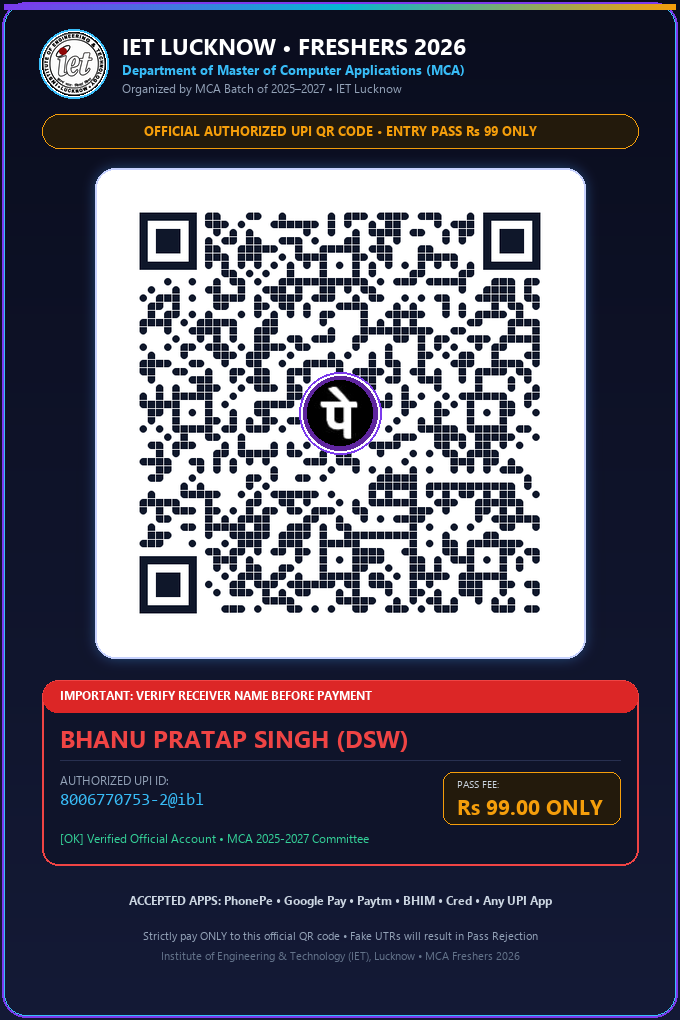
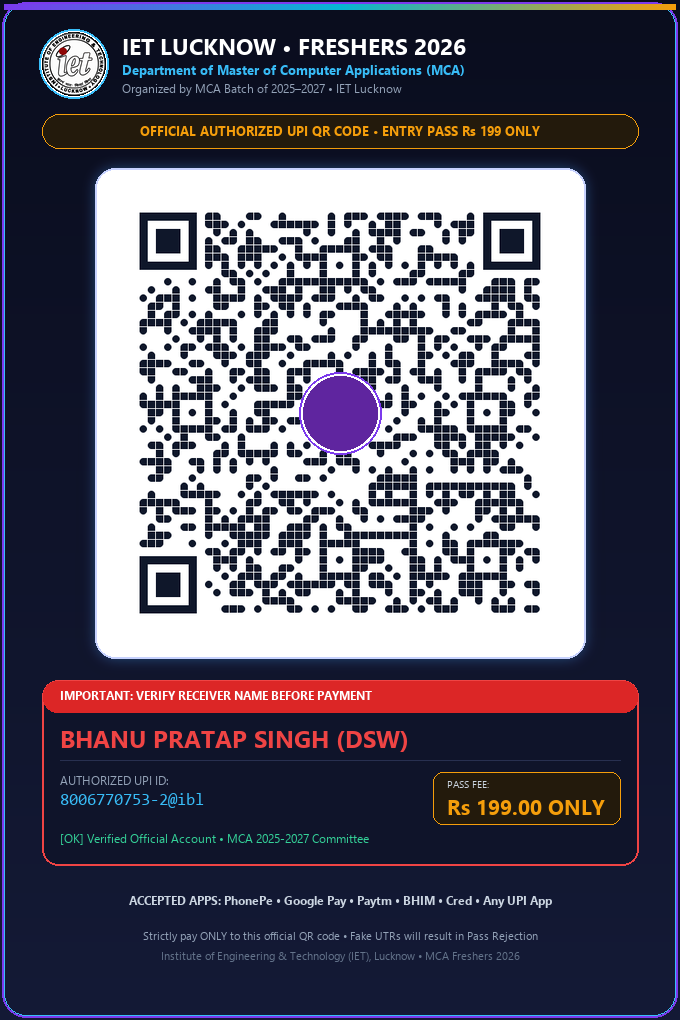
Update event pass entry fee from 99 to 199 across platform, templates, SQL default, and QR card

Changed region(s): [[0.2162, 0.1216, 0.8029, 0.152], [0.6176, 0.7598, 0.8647, 0.8206], [0.4324, 0.3647, 0.5559, 0.4559]]

diff --git a/index.html b/index.html
@@ -4,13 +4,13 @@
   <meta charset="UTF-8">
   <meta name="viewport" content="width=device-width, initial-scale=1.0">
   <title>MCA Freshers 2026 | IET Lucknow</title>
-  <meta name="description" content="Official entry pass portal for MCA Freshers 2026 at Institute of Engineering & Technology (IET), Lucknow. Register, pay ₹99, and generate your digital QR entry pass.">
+  <meta name="description" content="Official entry pass portal for MCA Freshers 2026 at Institute of Engineering & Technology (IET), Lucknow. Register, pay ₹199, and generate your digital QR entry pass.">
   <link rel="canonical" href="https://utkrasht.in">
   <!-- Open Graph / WhatsApp / Telegram Previews -->
   <meta property="og:type" content="website">
   <meta property="og:url" content="https://utkrasht.in/">
   <meta property="og:title" content="MCA Freshers 2026 | IET Lucknow">
-  <meta property="og:description" content="Official entry pass portal for MCA Freshers 2026 at IET Lucknow. Register now for ₹99 and download your official entry pass.">
+  <meta property="og:description" content="Official entry pass portal for MCA Freshers 2026 at IET Lucknow. Register now for ₹199 and download your official entry pass.">
   <meta property="og:image" content="https://utkrasht.in/Ietlogo.png">
   <link rel="icon" type="image/png" href="Ietlogo.png">
   <link rel="stylesheet" href="css/style.css?v=2026.4">
@@ -47,7 +47,7 @@
           <span>🚀 Enter Party Portal Now</span>
         </button>
         <a href="auth.html?mode=signup" class="btn btn-secondary" style="padding: 0.75rem 1.4rem; font-size: 0.95rem;">
-          <span>🎟 Register ₹99</span>
+          <span>🎟 Register ₹199</span>
         </a>
       </div>
       <div class="party-timer-container">
@@ -74,7 +74,7 @@
         <div class="nav-actions">
           <button class="theme-toggle-btn" aria-label="Toggle Theme"></button>
           <a href="auth.html?mode=login" class="btn btn-ghost btn-sm">Login</a>
-          <a href="auth.html?mode=signup" class="btn btn-primary btn-sm">Register ₹99</a>
+          <a href="auth.html?mode=signup" class="btn btn-primary btn-sm">Register ₹199</a>
         </div>
       </div>
     </header>
@@ -130,7 +130,7 @@
           <div class="hero-cta-group">
             <a href="auth.html?mode=signup" class="btn btn-primary btn-lg btn-party-shimmer">
               <span>🎟 Get Entry Pass</span>
-              <span class="badge" style="background: rgba(255, 255, 255, 0.2); color: #ffffff; padding: 0.2rem 0.5rem; font-size: 0.75rem;">₹99 ONLY</span>
+              <span class="badge" style="background: rgba(255, 255, 255, 0.2); color: #ffffff; padding: 0.2rem 0.5rem; font-size: 0.75rem;">₹199 ONLY</span>
             </a>
             <a href="auth.html?mode=login" class="btn btn-secondary btn-lg">
               <span>Student Login</span>
@@ -166,7 +166,7 @@
           <div>
             <div style="font-size: 1.5rem; margin-bottom: 0.3rem;">💰</div>
             <div style="font-weight: 700; font-size: 0.95rem; color: var(--text-main);">Entry Fee</div>
-            <div style="font-size: 0.85rem; color: var(--text-muted);">₹99 (Pay via UPI)</div>
+            <div style="font-size: 0.85rem; color: var(--text-muted);">₹199 (Pay via UPI)</div>
           </div>
           <div>
             <div style="font-size: 1.5rem; margin-bottom: 0.3rem;">👔</div>
@@ -279,7 +279,7 @@
 
             <div class="card" style="text-align: center;">
               <div style="width: 44px; height: 44px; border-radius: 50%; background: var(--cyan); color: #fff; display: flex; align-items: center; justify-content: center; font-weight: 800; font-size: 1.1rem; margin: 0 auto 1rem;">2</div>
-              <h3 style="font-size: 1.1rem; margin-bottom: 0.4rem;">Agree &amp; Pay ₹99</h3>
+              <h3 style="font-size: 1.1rem; margin-bottom: 0.4rem;">Agree &amp; Pay ₹199</h3>
               <p style="color: var(--text-muted); font-size: 0.85rem;">Review mandatory code of conduct, scan UPI QR, and submit your UTR number + screenshot.</p>
             </div>
 
@@ -361,7 +361,7 @@
             <h4>Quick Links</h4>
             <ul style="list-style: none; display: flex; flex-direction: column; gap: 0.5rem; font-size: 0.9rem;">
               <li><a href="index.html" style="color: var(--text-muted); text-decoration: none;">Home</a></li>
-              <li><a href="auth.html?mode=signup" style="color: var(--text-muted); text-decoration: none;">Register (₹99)</a></li>
+              <li><a href="auth.html?mode=signup" style="color: var(--text-muted); text-decoration: none;">Register (₹199)</a></li>
               <li><a href="auth.html?mode=login" style="color: var(--text-muted); text-decoration: none;">Student Login</a></li>
               <li><a href="dashboard.html" style="color: var(--text-muted); text-decoration: none;">Pass Dashboard</a></li>
               <li><a href="admin.html" style="color: var(--cyan); text-decoration: none; font-weight: 600;">Admin Portal 🔐</a></li>

diff --git a/dashboard.html b/dashboard.html
@@ -56,7 +56,7 @@
           </div>
           <div style="text-align: right;">
             <div style="font-size: 0.75rem; color: var(--text-dim); text-transform: uppercase; font-weight: 700;">Pass Fee</div>
-            <div style="font-size: 1.5rem; font-weight: 800; color: var(--gold); font-family: 'Space Grotesk', sans-serif;">₹99 ONLY</div>
+            <div style="font-size: 1.5rem; font-weight: 800; color: var(--gold); font-family: 'Space Grotesk', sans-serif;">₹199 ONLY</div>
           </div>
         </div>
 
@@ -159,7 +159,7 @@
           </div>
 
           <button id="agree-proceed-btn" class="btn btn-primary" disabled style="width: 100%; padding: 0.85rem;">
-            <span>I Agree &amp; Proceed to Payment (₹99)</span>
+            <span>I Agree &amp; Proceed to Payment (₹199)</span>
           </button>
         </section>
 
@@ -170,7 +170,7 @@
           <div style="display: flex; align-items: center; gap: 0.75rem; margin-bottom: 1.25rem;">
             <span style="font-size: 1.75rem;">💳</span>
             <div>
-              <h2 style="font-size: 1.35rem; margin-bottom: 0.2rem;">Scan &amp; Pay ₹99 via UPI</h2>
+              <h2 style="font-size: 1.35rem; margin-bottom: 0.2rem;">Scan &amp; Pay ₹199 via UPI</h2>
               <p style="color: var(--text-muted); font-size: 0.85rem;">Complete payment using PhonePe, GPay, Paytm, or any authorized UPI app.</p>
             </div>
           </div>
@@ -221,14 +221,14 @@
 
               <div style="margin-bottom: 1rem;">
                 <div style="font-size: 0.75rem; text-transform: uppercase; font-weight: 700; color: var(--text-dim);">Fee Amount</div>
-                <div style="font-size: 1.4rem; font-weight: 800; color: var(--gold); font-family: 'Space Grotesk', sans-serif;">₹99.00</div>
+                <div style="font-size: 1.4rem; font-weight: 800; color: var(--gold); font-family: 'Space Grotesk', sans-serif;">₹199.00</div>
               </div>
 
               <div style="font-size: 0.85rem; color: var(--text-muted); line-height: 1.6; background: var(--bg-glass-strong); padding: 0.85rem; border-radius: 10px; border: 1px solid var(--border-subtle);">
                 <strong>⚡ Steps to complete:</strong><br>
                 1. Open PhonePe, GPay, or Paytm and scan the QR code.<br>
                 2. Verify the receiver name displays <strong style="color: var(--error);">Bhanu Pratap Singh</strong>.<br>
-                3. Pay ₹99 and note down the <strong>12-digit UTR number</strong>.<br>
+                3. Pay ₹199 and note down the <strong>12-digit UTR number</strong>.<br>
                 4. Upload the screenshot below.
               </div>
             </div>
@@ -295,7 +295,7 @@
             </div>
             <div style="display: flex; justify-content: space-between; padding: 0.4rem 0; border-bottom: 1px solid var(--border-subtle); font-size: 0.85rem;">
               <span style="color: var(--text-muted);">Amount Paid:</span>
-              <span style="font-weight: 700; color: var(--gold);">₹99.00</span>
+              <span style="font-weight: 700; color: var(--gold);">₹199.00</span>
             </div>
             <div style="display: flex; justify-content: space-between; padding: 0.4rem 0; font-size: 0.85rem;">
               <span style="color: var(--text-muted);">Submission Time:</span>

diff --git a/js/admin.js b/js/admin.js
@@ -367,7 +367,7 @@ function renderPaymentsTable(payments, profiles) {
           </td>
           <td>+91 ${p.payment_mobile || student.mobile || "--"}</td>
           <td class="font-mono" style="color: var(--gold); font-weight: 700;">${p.utr_number}</td>
-          <td style="font-weight: 700;">₹${p.amount || 99}</td>
+          <td style="font-weight: 700;">₹${p.amount || 199}</td>
           <td>${screenshotBtn}</td>
           <td>
             <div style="display: flex; flex-direction: column; gap: 0.35rem;">
@@ -421,7 +421,7 @@ function renderPaymentsTable(payments, profiles) {
           </td>
           <td>+91 ${p.payment_mobile || student.mobile || "--"}</td>
           <td class="font-mono" style="color: var(--gold); font-weight: 700;">${p.utr_number}</td>
-          <td style="font-weight: 700; color: var(--success);">₹${p.amount || 99}</td>
+          <td style="font-weight: 700; color: var(--success);">₹${p.amount || 199}</td>
           <td>${screenshotBtn}</td>
           <td>${passCodeText}</td>
         </tr>
@@ -493,7 +493,7 @@ let currentRejectData = null;
 
 const REJECT_PRESETS = {
   fake: "🚨 OFFICIAL NOTICE OF MISCONDUCT & MISBEHAVIOR: You have submitted a fraudulent/fake payment screenshot or forged UTR number. Your entry pass approval is REJECTED with immediate effect. This act of severe indiscipline has been formally recorded for disciplinary action by organizing committee. For genuine verification appeals, contact the organizing team immediately at 8922921012 / 8006770753.",
-  mismatch: "⚠ Bank Statement Verification Failed: The UTR / Transaction ID submitted was not reflected in the official bank statement (8006770753-2@ibl / Bhanu Pratap Singh). Please verify that ₹99 was deducted from your bank account and resubmit with genuine receipt, or contact coordinators.",
+  mismatch: "⚠ Bank Statement Verification Failed: The UTR / Transaction ID submitted was not reflected in the official bank statement (8006770753-2@ibl / Bhanu Pratap Singh). Please verify that ₹199 was deducted from your bank account and resubmit with genuine receipt, or contact coordinators.",
   blurry: "⚠ Unclear Payment Receipt: The uploaded screenshot is cropped, blurry, or missing the bank reference number and transaction timestamp. Please re-upload a clear and complete screenshot.",
   custom: ""
 };

diff --git a/supabase-email-confirm-signup.html b/supabase-email-confirm-signup.html
@@ -95,7 +95,7 @@
               </p>
 
               <p style="margin: 0 0 20px; font-size: 14px; line-height: 1.65; color: #cbd5e1;">
-                The <strong>MCA Batch of 2025–2027</strong> cordially invites you to the grand celebration welcoming the <strong>MCA Batch of 2026–2028</strong>! To complete your student registration, unlock your dashboard, and secure your ₹99 entry pass, please confirm your email address.
+                The <strong>MCA Batch of 2025–2027</strong> cordially invites you to the grand celebration welcoming the <strong>MCA Batch of 2026–2028</strong>! To complete your student registration, unlock your dashboard, and secure your ₹199 entry pass, please confirm your email address.
               </p>
 
               <!-- Call to Action Button -->
@@ -127,7 +127,7 @@
                       </tr>
                       <tr>
                         <td width="24" valign="top">🎟</td>
-                        <td><strong>Pass Fee:</strong> ₹99 ONLY (Includes Lunch, DJ Vibes, Games &amp; Digital Pass)</td>
+                        <td><strong>Pass Fee:</strong> ₹199 ONLY (Includes Lunch, DJ Vibes, Games &amp; Digital Pass)</td>
                       </tr>
                       <tr>
                         <td width="24" valign="top">🛡</td>

diff --git a/auth.html b/auth.html
@@ -145,7 +145,7 @@
           </button>
 
           <p style="text-align: center; margin-top: 1.25rem; font-size: 0.85rem; color: var(--text-muted);">
-            Don't have an account? <a href="#" id="switch-to-signup" style="color: var(--primary-light); font-weight: 600; text-decoration: none;">Sign Up for Pass (₹99)</a>
+            Don't have an account? <a href="#" id="switch-to-signup" style="color: var(--primary-light); font-weight: 600; text-decoration: none;">Sign Up for Pass (₹199)</a>
           </p>
         </form>
 
@@ -236,7 +236,7 @@
           <div style="font-weight: 700; color: var(--text-main); margin-bottom: 0.3rem;">⚡ Next Steps:</div>
           <div>1. Open your inbox (or Spam/Promotions folder)</div>
           <div>2. Click the confirmation link from Supabase / IET Freshers</div>
-          <div>3. Return here and <strong>Login</strong> to generate your ₹99 Entry Pass!</div>
+          <div>3. Return here and <strong>Login</strong> to generate your ₹199 Entry Pass!</div>
         </div>
 
         <div style="display: flex; gap: 0.75rem; justify-content: center;">

diff --git a/js/config.js b/js/config.js
@@ -23,7 +23,7 @@ const CONFIG = {
     COUNTDOWN_TARGET: "2026-09-27T12:00:00+05:30",
     VENUE: "IET Lucknow Auditorium / Campus Grounds",
     DRESS_CODE: "Smart Casuals / Ethnic Glamour",
-    ENTRY_FEE: 99, // In INR
+    ENTRY_FEE: 199, // In INR
   },
 
   // Payment Details (Authorized PhonePe UPI)
@@ -33,7 +33,7 @@ const CONFIG = {
     RECEIVER_DISPLAY: "Bhanu Pratap Singh (DSW)",
     UPI_NAME: "Bhanu Pratap Singh (DSW)",
     UPI_MOBILE: "8006770753",
-    AMOUNT: 99,
+    AMOUNT: 199,
     QR_IMAGE: "assets/upi-qr.png"
   },
 

diff --git a/js/pass.js b/js/pass.js
@@ -56,7 +56,7 @@ document.addEventListener("DOMContentLoaded", async () => {
     if (!payment) {
       if (loadingState) loadingState.style.display = "none";
       if (deniedState) deniedState.style.display = "block";
-      if (deniedReason) deniedReason.textContent = "You have not submitted your ₹99 payment yet. Please complete payment on your dashboard.";
+      if (deniedReason) deniedReason.textContent = "You have not submitted your ₹199 payment yet. Please complete payment on your dashboard.";
       return;
     }
 

diff --git a/js/dashboard.js b/js/dashboard.js
@@ -349,7 +349,7 @@ function initConsentScrollEnforcement() {
       console.error("Consent recording error:", err);
       alert("Error saving consent. Please try again: " + err.message);
       agreeBtn.disabled = false;
-      agreeBtn.textContent = "I Agree & Proceed to Payment (₹99)";
+      agreeBtn.textContent = "I Agree & Proceed to Payment (₹199)";
     }
   });
 }

diff --git a/js/payment.js b/js/payment.js
@@ -207,7 +207,7 @@ document.addEventListener("DOMContentLoaded", () => {
           .upsert({
             user_id: currentStudent.id,
             utr_number: utr,
-            amount: 99.00,
+            amount: 199.00,
             payment_mobile: mobile,
             screenshot_url: screenshotUrl,
             status: "pending",

diff --git a/generate_stylish_qr.py b/generate_stylish_qr.py
@@ -71,7 +71,7 @@ def create_stylish_upi_qr():
     # 3. Badge Banner: OFFICIAL AUTHORIZED UPI QR
     badge_x1, badge_y1, badge_x2, badge_y2 = 42, 114, W - 42, 148
     draw.rounded_rectangle([badge_x1, badge_y1, badge_x2, badge_y2], radius=17, fill=(35, 26, 12, 230), outline=(245, 158, 11, 220), width=1)
-    badge_text = "OFFICIAL AUTHORIZED UPI QR CODE • ENTRY PASS Rs 99 ONLY"
+    badge_text = "OFFICIAL AUTHORIZED UPI QR CODE • ENTRY PASS Rs 199 ONLY"
     bw = draw.textlength(badge_text, font=font_badge)
     draw.text(((W - bw) / 2, badge_y1 + 7), badge_text, fill=(245, 158, 11), font=font_badge)
 
@@ -165,10 +165,10 @@ def create_stylish_upi_qr():
     draw.text((box_x1 + 18, box_y1 + 112), "8006770753-2@ibl", fill=(56, 189, 248), font=font_mono)
 
     # Right: Amount Pill
-    amt_x = box_x2 - 195
+    amt_x = box_x2 - 205
     draw.rounded_rectangle([amt_x, box_y1 + 92, box_x2 - 18, box_y1 + 144], radius=10, fill=(35, 26, 12, 240), outline=(245, 158, 11, 220), width=1)
     draw.text((amt_x + 14, box_y1 + 97), "PASS FEE:", fill=(203, 213, 225), font=ImageFont.truetype("C:/Windows/Fonts/segoeui.ttf", 10))
-    draw.text((amt_x + 14, box_y1 + 112), "Rs 99.00 ONLY", fill=(245, 158, 11), font=font_amount)
+    draw.text((amt_x + 14, box_y1 + 112), "Rs 199.00 ONLY", fill=(245, 158, 11), font=font_amount)
 
     # Security Verification Tag
     draw.text((box_x1 + 18, box_y1 + 150), "[OK] Verified Official Account • MCA 2025-2027 Committee", fill=(52, 211, 153), font=font_small)
